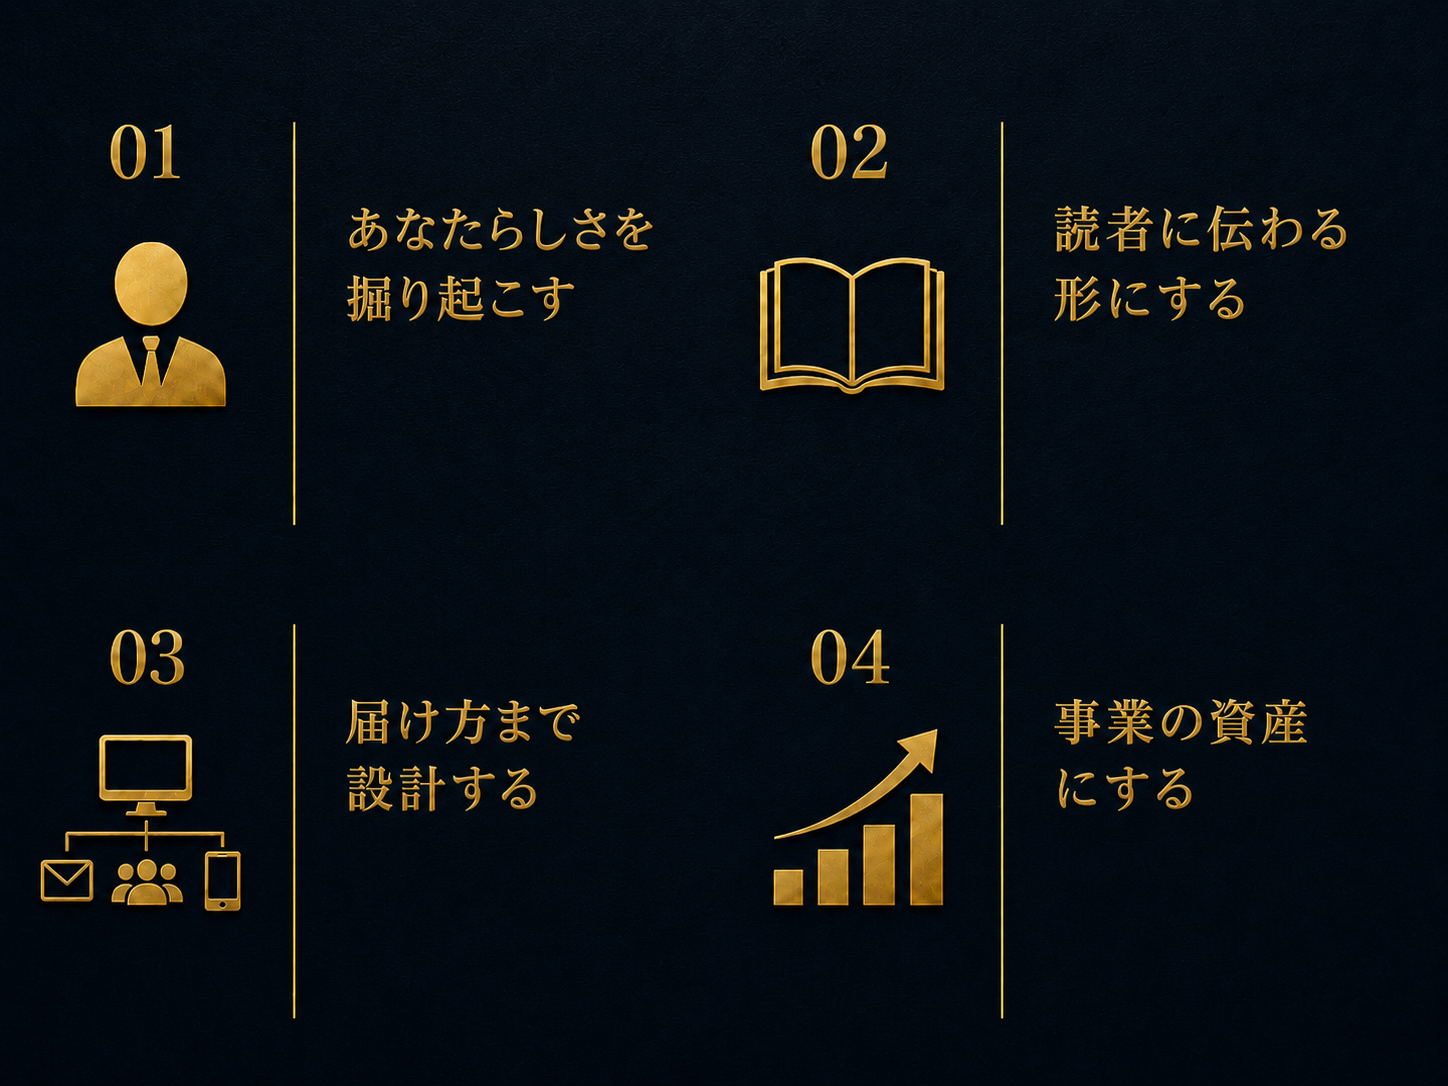
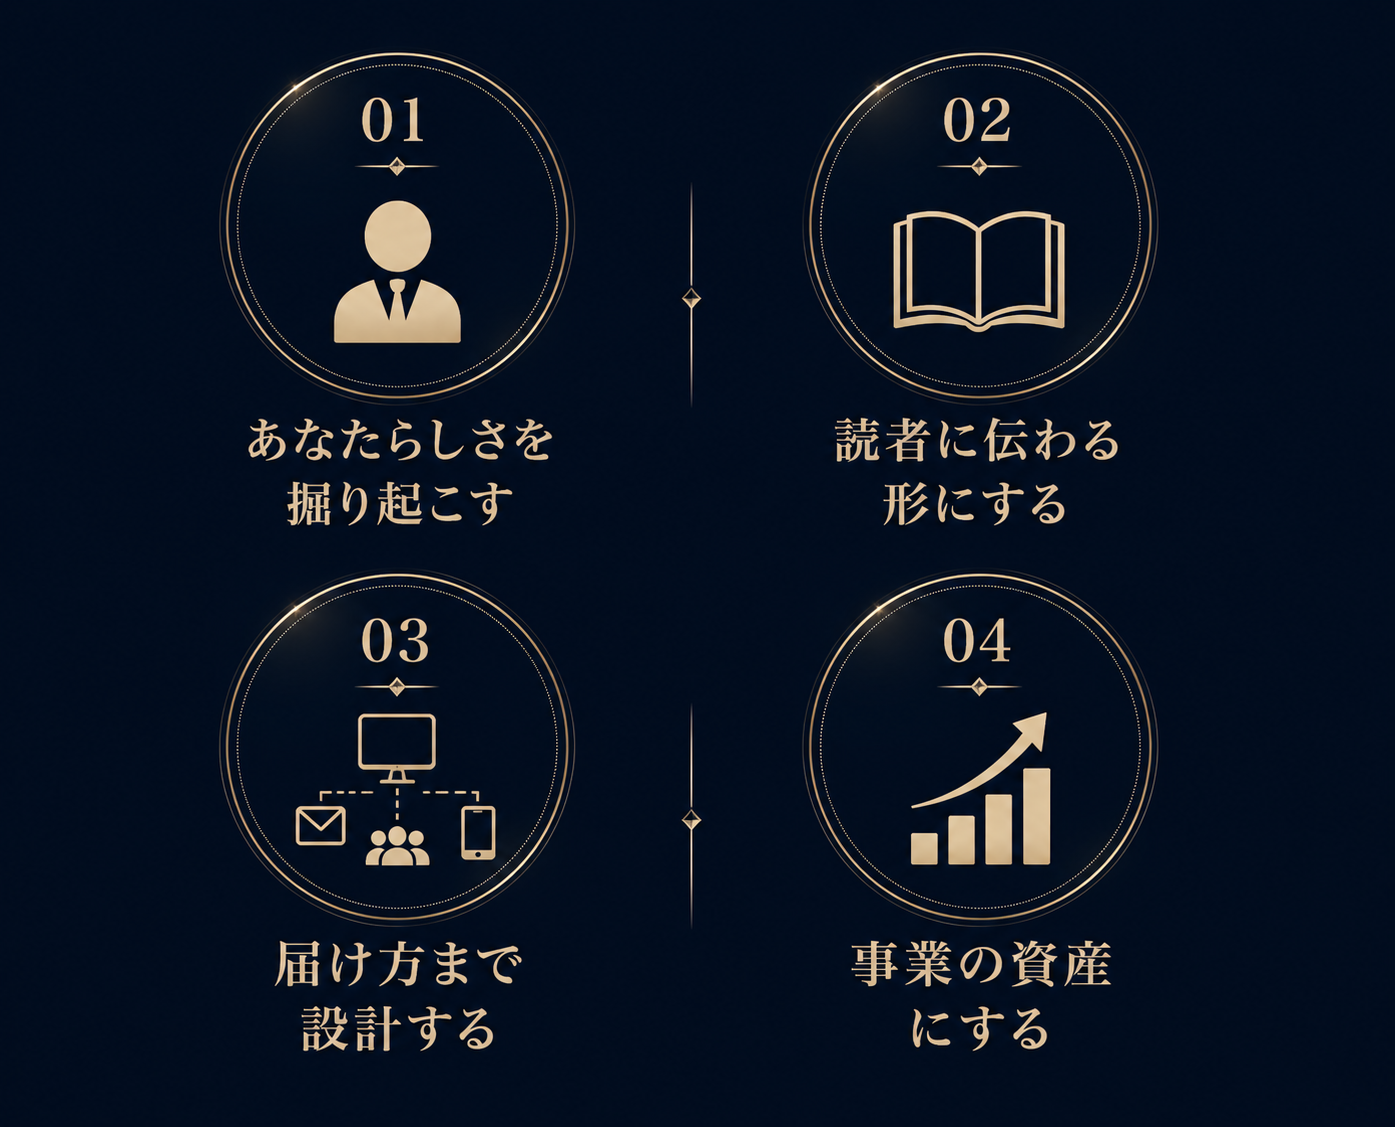
v9: structure.png を4ステップ図に差し替え

diff --git a/v9/index.html b/v9/index.html
@@ -1032,7 +1032,7 @@
       <p class="how-step-body">指名買いが起きると、顧客の質が変わります。説明コストが下がります。任せられる仕組みが生まれます。本は一度つくれば、長く効き続ける資産になります。</p>
     </div>
   </div>
-  <img src="structure.png" alt="事業の構造図" style="display:block; width:calc(100% + 48px); margin:32px -24px 0; padding:0;">
+  <img src="structure.png?v=2" alt="事業の構造図" style="display:block; width:calc(100% + 48px); margin:32px -24px 0; padding:0;">
 </section>
 
 <div class="divider"></div>
